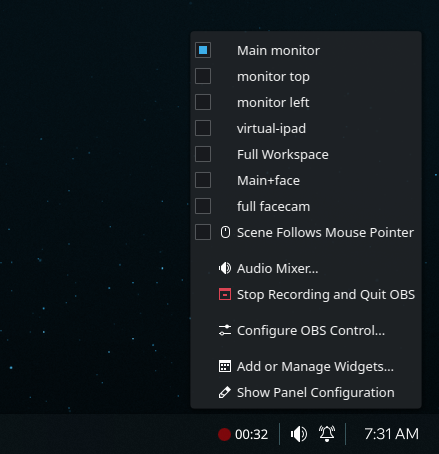
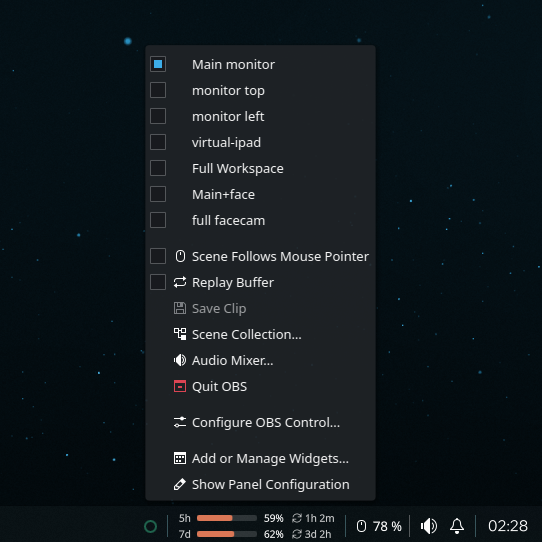
Update the README screenshots
The context menu now shows the replay buffer and "Scene Collection…"
entries. Taken in English to match the README text. The tooltip screenshot
is gone: three lines of text that the README already describes.

diff --git a/README.md b/README.md
@@ -5,9 +5,7 @@ pauses the recording with a click. The context menu lets you switch scenes
 and scene collections and open an audio mixer. Speaks obs-websocket v5 (built into OBS since
 version 28).
 
-![Context menu with scenes while recording](docs/images/context-menu.png)
-
-![Tooltip showing state, scene and mouse wheel scenes](docs/images/tooltip.png)
+![Context menu with scenes, replay buffer, scene collection and mixer entries](docs/images/context-menu.png)
 
 | Indicator | Meaning | Click |
 | --- | --- | --- |
